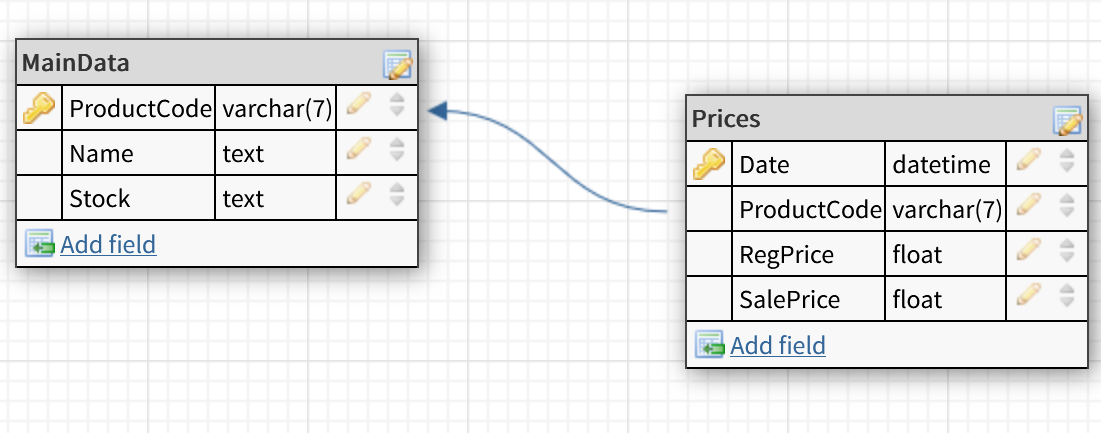
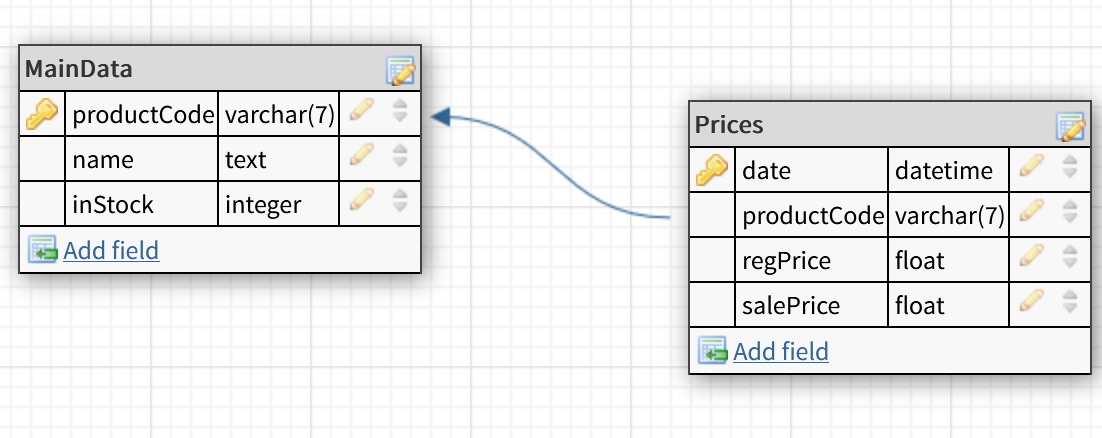
Created database functions

diff --git a/database.py b/database.py
@@ -1,0 +1,61 @@
+# Import modules
+import sqlite3
+from sqlite3 import Error
+
+# Connect to database
+con = sqlite3.connect("products.db")
+cursor = con.cursor()
+
+# Fill database with tables
+def createTables():
+    try:
+        cursor.execute("""
+            CREATE TABLE MainData(
+                productCode varchar(7) PRIMARY KEY,
+                name text NOT NULL,
+                inStock integer NOT NULL
+            );
+        """)
+        cursor.execute("""
+            CREATE TABLE Prices(
+                date datetime PRIMARY KEY,
+                productCode varchar(7),
+                regPrice float,
+                salePrice float,
+                FOREIGN KEY (productCode)
+                    REFERENCES MainData (productCode)
+            );
+        """)
+        con.commit()
+    except sqlite3.Error as error:
+        print(error)
+
+# Insert product entry into table
+def insertData(productCode:str, name:str, inStock:int):
+    try:
+        cursor.execute("""
+            INSERT INTO MainData (productCode, name, inStock)
+            VALUES (?,?,?)
+        """,
+            (productCode, name, inStock)
+        )
+        con.commit()
+    except sqlite3.Error as error:
+        print(error)
+
+# Insert price entry into table
+def insertPrices(date:str, productCode:str, regPrice:float, salePrice:float):
+    try:
+        cursor.execute("""
+            INSERT INTO Prices (date, productCode, regPrice, salePrice)
+            VALUES (?,?,?,?)
+        """,
+            (date, productCode, regPrice, salePrice)
+        )
+        con.commit()
+    except sqlite3.Error as error:
+        print(error)
+
+# Close database
+def close():
+    con.close()

diff --git a/main.py b/main.py
@@ -1,0 +1,11 @@
+# Import modules
+import database as db
+
+# db.createTables()
+
+# db.insertData("AB12345","Sponge",1)
+
+# db.insertPrices("2023/01/21", "AB12345", 9.99, 8.40)
+
+# db.close()
+
